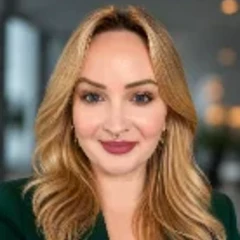
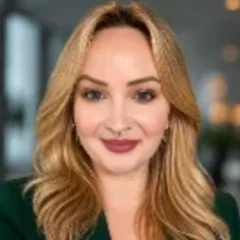
Meet the lab: add Imaan Ali, Funding sections, matched headshot crops
- Add Imaan Ali (UIC undergraduate junior, BS/MD Program) under research
  affiliates and volunteers; count 4 -> 5
- Ida Diab and Sajal Shukla: "BS/MD Program" in place of "Accepted to
  medical school"; Sajal's interest trimmed to "neurosteroid flux in males"
- Funding pills become a Funding section after Interests and before Now;
  Katja's links to her own DFG grant record
- Ashley Ross and Anna Patterson: drop Interests, keep Dissertation
- Recrop every headshot so faces are the same size and position

diff --git a/index.html b/index.html
@@ -156,9 +156,6 @@ section{padding:46px 0; border-bottom:1px solid var(--border)}
 .loc{position:absolute; top:0; right:13px; background:#626d7a; color:#fff; font-size:11px;
   font-weight:700; letter-spacing:.08em; padding:3px 8px 3px 7px; border-radius:0 0 5px 5px}
 .loc.uc{background:#800000}
-.fund{display:inline-block; background:transparent; color:var(--ink-2); border:1px solid color-mix(in srgb,var(--ink-3) 55%,transparent); font-size:11px; font-weight:700;
-  letter-spacing:.06em; padding:2px 8px; border-radius:5px; margin-top:7px; text-decoration:none}
-a.fund:hover{background:var(--surface); text-decoration:none}
 
 
 
@@ -225,7 +222,6 @@ section[id]{scroll-margin-top:54px}
 .labphoto{width:100%; aspect-ratio:21/9; object-fit:cover; object-position:50% 2%;
   border-radius:14px; display:block; margin-top:16px; margin-bottom:6px}
 .card .meta .lnk{display:inline-block; min-height:24px; padding-top:4px}
-.fund{min-height:24px; padding-top:4px; padding-bottom:4px; display:inline-flex; align-items:center}
 .contact a, .diss a{display:inline-block; min-height:24px; padding-top:4px}
 /* the university's own maroon, from the official kit */
 :root{--uchicago:#800000}
@@ -450,9 +446,8 @@ footer .affil .shield{height:40px; width:33.1px}
         <div class="body">
           <div class="pn">Ashley Ross, <span>MS</span></div>
           <div class="pr">MD/PhD Student</div>
-          <a class="fund" href="https://reporter.nih.gov/project-details/11390425">F30 (NIMH)</a>
           <div class="diss"><b>Dissertation</b><i>Idiographic ovarian hormone effects on suicidality in adolescent female psychiatric patients</i></div>
-          <div class="diss"><b>Interests</b><i>Cycle maturation and sensitivity in adolescence · exogenous hormone sensitivity</i></div>
+          <div class="diss"><b>Funding</b><a href="https://reporter.nih.gov/project-details/11390425">F30 (NIMH)</a></div>
         </div>
       </div>
       <div class="pc trainee"><span class="loc">UIC</span>
@@ -460,9 +455,8 @@ footer .affil .shield{height:40px; width:33.1px}
         <div class="body">
           <div class="pn">Anna Patterson, <span>BS</span></div>
           <div class="pr">MD/PhD Student</div>
-          <a class="fund" href="https://reporter.nih.gov/project-details/11243039">F30 (NIDA)</a>
           <div class="diss"><b>Dissertation</b><i>Ovarian steroid mechanisms of female cannabis use: longitudinal and experimental models</i></div>
-          <div class="diss"><b>Interests</b><i>Substance use across the cycle</i></div>
+          <div class="diss"><b>Funding</b><a href="https://reporter.nih.gov/project-details/11243039">F30 (NIDA)</a></div>
         </div>
       </div>
       <div class="pc open red">
@@ -475,7 +469,7 @@ footer .affil .shield{height:40px; width:33.1px}
       </div>
     </div>
 
-    <div class="tier s3">Research affiliates &amp; volunteers <span class="count">4 members</span></div>
+    <div class="tier s3">Research affiliates &amp; volunteers <span class="count">5 members</span></div>
     <div class="people">
       <div class="pc staff"><span class="loc">UIC</span><img src="assets/ph-nr.webp" alt="Natasha Reddy">
         <div class="body"><div class="pn">Natasha Reddy, <span>BA</span></div>
@@ -488,13 +482,18 @@ footer .affil .shield{height:40px; width:33.1px}
       <div class="pc staff"><span class="loc">UIC</span><img src="assets/ph-id.webp" alt="Ida Diab">
         <div class="body"><div class="pn">Ida Diab</div>
         <div class="pr">Undergraduate · Junior</div>
-        <div class="pd">Accepted to medical school</div>
+        <div class="pd">BS/MD Program</div>
+</div></div>
+      <div class="pc staff"><span class="loc">UIC</span><img src="assets/ph-ia.webp" alt="Imaan Ali">
+        <div class="body"><div class="pn">Imaan Ali</div>
+        <div class="pr">Undergraduate · Junior</div>
+        <div class="pd">BS/MD Program</div>
 </div></div>
       <div class="pc staff"><span class="loc">UIC</span><img src="assets/ph-ss.webp" alt="Sajal Shukla">
         <div class="body"><div class="pn">Sajal Shukla, <span>BS</span></div>
         <div class="pr">Post-Baccalaureate</div>
-        <div class="pd">Accepted to medical school</div>
-        <div class="diss"><b>Interests</b><i>Digital mental health · drivers of neurosteroid flux in males</i></div></div></div>
+        <div class="pd">BS/MD Program</div>
+        <div class="diss"><b>Interests</b><i>Digital mental health · neurosteroid flux in males</i></div></div></div>
     </div>
 
     <div class="tier s4">Alumni <span class="count">5 alumni</span></div>
@@ -505,8 +504,8 @@ footer .affil .shield{height:40px; width:33.1px}
         <div class="body">
           <div class="pn">Katja Schmalenberger, <span>PhD</span></div>
           <div class="pr">Former Postdoctoral Fellow</div>
-          <a class="fund" href="https://www.dfg.de/en/research-funding/funding-opportunities/programmes/individual/emmy-noether">Emmy Noether</a>
           <div class="diss"><b>Interests</b><i>Cycle methods standardization · cognitive and cardiac function across the cycle</i></div>
+          <div class="diss"><b>Funding</b><a href="https://gepris.dfg.de/project/568773664?lang=en">Emmy Noether</a></div>
           <div class="now"><b>Now</b> Research Professor · Ulm University, Germany</div>
         </div>
       </div>
@@ -514,8 +513,8 @@ footer .affil .shield{height:40px; width:33.1px}
         <div class="body">
           <div class="pn">Elizabeth Mulligan, <span>PhD</span></div>
           <div class="pr">Former Postdoctoral Fellow</div>
-          <a class="fund" href="https://reporter.nih.gov/project-details/10154453">F31</a>
           <div class="diss"><b>Interests</b><i>EEG · neural reward function across the cycle</i></div>
+          <div class="diss"><b>Funding</b><a href="https://reporter.nih.gov/project-details/10154453">F31</a></div>
           <div class="now"><b>Now</b> Private practice · Chicago Premenstrual Disorders Clinic</div>
         </div>
       </div>
@@ -536,9 +535,9 @@ footer .affil .shield{height:40px; width:33.1px}
         <div class="body">
           <div class="pn">Anisha Nagpal, <span>PhD</span></div>
           <div class="pr">Former MD/PhD Student</div>
-          <a class="fund" href="https://reporter.nih.gov/project-details/11336322">F30 (NIMH)</a>
           <div class="diss"><b>Dissertation</b><i>Sleep as a mechanism of premenstrual exacerbation of depression and suicidality</i></div>
           <div class="diss"><b>Interests</b><i>Applying GAMs to the cycle · cyclical sleep sensitivity</i></div>
+          <div class="diss"><b>Funding</b><a href="https://reporter.nih.gov/project-details/11336322">F30 (NIMH)</a></div>
           <div class="honor">Developer of menstrualcycleR</div>
           <div class="now"><b>Now</b> M3 medical student · UIC</div>
         </div>
@@ -547,9 +546,9 @@ footer .affil .shield{height:40px; width:33.1px}
         <div class="body">
           <div class="pn">Jordan Barone, <span>MD/PhD</span></div>
           <div class="pr">Former MD/PhD Student</div>
-          <a class="fund" href="https://researchtraining.nih.gov/programs/training-grants/T32">T32</a>
           <div class="diss"><b>Dissertation</b><i>Peripheral GABA-A receptor subunit expression in perimenstrual exacerbation of affect and suicidality</i></div>
           <div class="diss"><b>Interests</b><i>Peripheral biomarker screening in menstrual-cycle affective change</i></div>
+          <div class="diss"><b>Funding</b><a href="https://researchtraining.nih.gov/programs/training-grants/T32">T32</a></div>
           <div class="now"><b>Now</b> Pediatrics resident · Medical College of Wisconsin</div>
         </div>
       </div>
